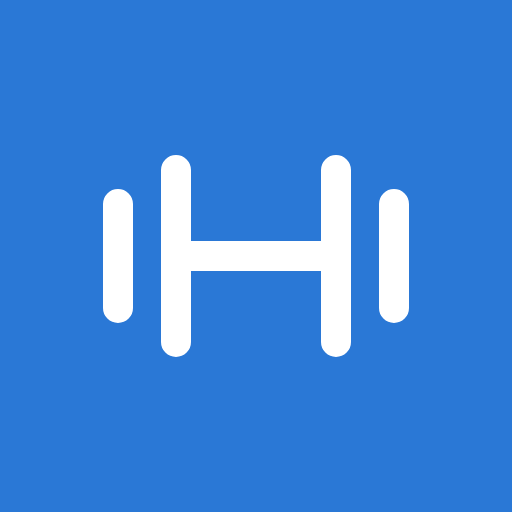
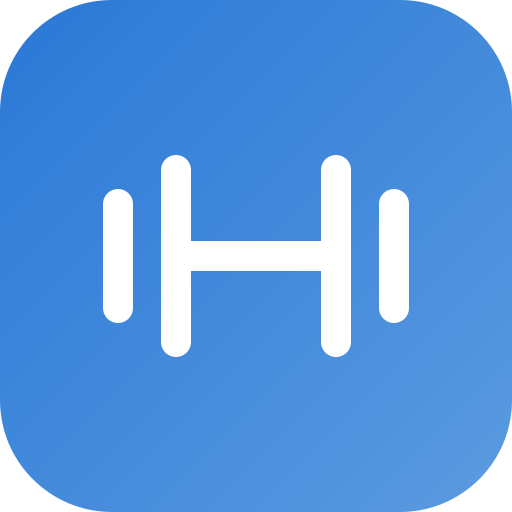
Add files via upload

diff --git a/index.html b/index.html
@@ -15,6 +15,15 @@
 <link rel="apple-touch-icon" href="apple-touch-icon.png">
 <title>Training Log</title>
 <link rel="stylesheet" href="https://fonts.googleapis.com/css2?family=Barlow+Condensed:wght@500;600;700&family=Barlow:wght@400;500;600&display=swap">
+<script>
+var PALS={classic:{n:"Classic",l:"#f1f2ee",d:"#0f1214"},mermaid:{n:"Mermaid",l:"#f3f1fb",d:"#0c0f20"},miami:{n:"Miami Vice",l:"#fff1ee",d:"#12062a"}};
+function applyPal(k){if(!PALS[k])k="classic";var r=document.documentElement;if(k==="classic")r.removeAttribute("data-pal");else r.setAttribute("data-pal",k);
+ try{localStorage.setItem("training-log-pal",k)}catch(e){}
+ var a=document.querySelector('link[rel="icon"]'),b=document.querySelector('link[rel="apple-touch-icon"]');
+ if(a)a.href="icon-"+k+".svg";if(b)b.href="icon-"+k+"-touch.png";
+ var m=document.querySelectorAll('meta[name="theme-color"]');if(m[0])m[0].content=PALS[k].l;if(m[1])m[1].content=PALS[k].d}
+try{var q=localStorage.getItem("training-log-pal");if(q&&q!=="classic")applyPal(q)}catch(e){}
+</script>
 <style>
 /* Layout: one phone column, five bottom tabs. Look: gym-floor signage (condensed numerals, chalk-gray ground, one blue). */
 :root{
@@ -31,6 +40,41 @@
   --bg:#0f1214; --surface:#171b1e; --surface-2:#22282c; --ink:#eef1ee; --ink-2:#b7c0c5; --ink-3:#8c979e;
   --line:#2b3237; --grid:#242b30; --accent:#3987e5; --accent-ink:#04101e; --accent-soft:#16283d;
   --good:#52c882; --good-soft:#142a1d; --warn:#f0a443; --warn-soft:#2d2312; --bad:#ff8a80; color-scheme:dark; }
+
+/* Mermaid palette: lagoon teal, lavender, seafoam, pearl pink. Pairs with the iridescent buttons. */
+:root{--irid:linear-gradient(110deg,#7fb0ea,#a9c8ee,#9bd0c6,#c6d8bd,#93b3dc,#7fb0ea);--irid-glow:rgba(42,120,214,.30);--l1:#2a78d6;--l2:#5b9be0}
+:root[data-pal="mermaid"]{
+  --bg:#f3f1fb; --surface:#ffffff; --surface-2:#e9e6f6; --ink:#1d1a33; --ink-2:#4a4670; --ink-3:#6a668f;
+  --line:#dad5ee; --grid:#e7e3f4; --accent:#0a7f8c; --accent-ink:#ffffff; --accent-soft:#dcf2f4;
+  --good:#0d7a5c; --good-soft:#dcf5ec; --warn:#a24a17; --warn-soft:#fdeadb; --bad:#b3224f;
+  --irid:linear-gradient(110deg,#ff8fd8,#c4a7ff,#7fe9ff,#8dffcf,#ff9fd0,#ff8fd8);--irid-glow:rgba(120,90,255,.35);--l1:#0a8f9a;--l2:#ff8fd8}
+@media (prefers-color-scheme: dark){ :root[data-pal="mermaid"]:not([data-theme="light"]){
+  --bg:#0c0f20; --surface:#141932; --surface-2:#1e2445; --ink:#eff0ff; --ink-2:#bcc2e6; --ink-3:#8d94bf;
+  --line:#2a3159; --grid:#222849; --accent:#4fd8c9; --accent-ink:#04211f; --accent-soft:#12303c;
+  --good:#6ae8ae; --good-soft:#12332a; --warn:#ffb877; --warn-soft:#33261b; --bad:#ff93ad; color-scheme:dark; } }
+:root[data-pal="mermaid"][data-theme="dark"]{
+  --bg:#0c0f20; --surface:#141932; --surface-2:#1e2445; --ink:#eff0ff; --ink-2:#bcc2e6; --ink-3:#8d94bf;
+  --line:#2a3159; --grid:#222849; --accent:#4fd8c9; --accent-ink:#04211f; --accent-soft:#12303c;
+  --good:#6ae8ae; --good-soft:#12332a; --warn:#ffb877; --warn-soft:#33261b; --bad:#ff93ad; color-scheme:dark; }
+.pal{display:grid;grid-template-columns:1fr 1fr 1fr;gap:10px}
+/* Miami Vice: flamingo pink, turquoise and sunset purple. */
+:root[data-pal="miami"]{
+  --bg:#fff1ee; --surface:#ffffff; --surface-2:#ffe2ea; --ink:#2a1040; --ink-2:#5c3b77; --ink-3:#7b6293;
+  --line:#f2cfe0; --grid:#f7dee9; --accent:#c0157f; --accent-ink:#ffffff; --accent-soft:#ffe0f0;
+  --good:#0b7f78; --good-soft:#d9f5f1; --warn:#b3470d; --warn-soft:#ffe9d5; --bad:#b3122f;
+  --irid:linear-gradient(110deg,#ff6fb5,#ffa36a,#ffd86e,#5fe8d8,#9b7bff,#ff6fb5);--irid-glow:rgba(255,79,168,.38);--l1:#ff5fa8;--l2:#7c4dff}
+@media (prefers-color-scheme: dark){ :root[data-pal="miami"]:not([data-theme="light"]){
+  --bg:#12062a; --surface:#1c0c3d; --surface-2:#2a1356; --ink:#fff1fb; --ink-2:#d8b9ee; --ink-3:#a98cc9;
+  --line:#3a1d6e; --grid:#2e1760; --accent:#ff4fa8; --accent-ink:#2b0420; --accent-soft:#3a1240;
+  --good:#3ff0dc; --good-soft:#0f3a3d; --warn:#ffb36b; --warn-soft:#3a2414; --bad:#ff7a93; color-scheme:dark; } }
+:root[data-pal="miami"][data-theme="dark"]{
+  --bg:#12062a; --surface:#1c0c3d; --surface-2:#2a1356; --ink:#fff1fb; --ink-2:#d8b9ee; --ink-3:#a98cc9;
+  --line:#3a1d6e; --grid:#2e1760; --accent:#ff4fa8; --accent-ink:#2b0420; --accent-soft:#3a1240;
+  --good:#3ff0dc; --good-soft:#0f3a3d; --warn:#ffb36b; --warn-soft:#3a2414; --bad:#ff7a93; color-scheme:dark; }
+
+.pal strong{font-size:14px}.pal button{border:1.5px solid var(--line);background:var(--surface);border-radius:12px;padding:10px;text-align:left;display:flex;flex-direction:column;gap:6px}
+.pal button[aria-pressed="true"]{border-color:var(--accent);box-shadow:0 0 0 1px var(--accent) inset}
+.pal i{display:flex;height:16px;border-radius:6px;overflow:hidden}.pal i b{flex:1}
 
 *{box-sizing:border-box}
 html,body{margin:0}
@@ -61,7 +105,7 @@ main{display:flex;flex-direction:column;gap:14px;padding-top:6px}
 .btn.wide{width:100%}
 .btn.out{background:transparent;color:var(--ink);border:1.5px solid var(--line)}
 .btn.sm{min-height:38px;padding:0 14px;font-size:14px}
-.irid{border:0;border-radius:10px;min-height:40px;padding:0 16px;font-weight:800;color:#111;background:linear-gradient(110deg,#ff7ad9,#ffd36e,#7dffb2,#6ee7ff,#a78bfa,#ff7ad9);background-size:300% 100%;box-shadow:0 0 0 1.5px rgba(255,255,255,.55) inset,0 2px 10px rgba(120,90,255,.35);text-shadow:0 1px 0 rgba(255,255,255,.4)}
+.irid{border:0;border-radius:10px;min-height:40px;padding:0 16px;font-weight:800;color:#111;background:var(--irid);background-size:300% 100%;box-shadow:0 0 0 1.5px rgba(255,255,255,.55) inset,0 2px 10px var(--irid-glow);text-shadow:0 1px 0 rgba(255,255,255,.4)}
 @media (prefers-reduced-motion:no-preference){.irid{animation:irid 4s linear infinite}}
 @keyframes irid{to{background-position:300% 0}}
 .irid:active{transform:scale(.97)}
@@ -208,7 +252,7 @@ ol.steps,ul.watch{margin:0;padding-left:22px;display:flex;flex-direction:column;
 ol.steps li::marker{font-weight:700;color:var(--accent)}
 ul.watch li::marker{color:var(--warn)}
 .mus{font-size:14px}.mus b{font-weight:600}
-.dgm{margin:10px 0;padding:8px;border:1px solid var(--line,#ddd);border-radius:12px;background:var(--card,transparent)}
+.dgm{margin:10px 0;padding:8px;border:1px solid var(--line,#ddd);border-radius:12px;background:var(--surface)}
 .dgm svg{width:100%;height:auto;display:block}
 .dgm .fg{fill:none;stroke:var(--ink);stroke-width:2.6;stroke-linecap:round;stroke-linejoin:round}
 .dgm .fg.far{opacity:.45}.dgm .fg.head{fill:var(--bg,transparent)}
@@ -217,6 +261,7 @@ ul.watch li::marker{color:var(--warn)}
 .dgm .eqf{fill:var(--accent);stroke:none}.dgm .eqbg{fill:var(--accent);opacity:.08}
 .dgm .ar{fill:none;stroke:var(--accent);stroke-width:1.8;stroke-linecap:round}
 .dgm .bad .fg{stroke:var(--warn)}
+.dgm .dga-wrap .row{margin-top:4px}@media (prefers-reduced-motion:reduce){.dga-wrap{display:none}}
 .dgm .dl{font-size:9.5px;text-anchor:middle;fill:var(--muted,currentColor)}
 </style>
 </head>
@@ -443,12 +488,12 @@ function dgFrame(s,tf,sc,ox,label){
   const L=(pts,c)=>`<path class="fg ${c||''}" d="M${pts.map(T).join(' L')}"/>`;
   let out='',eq='',arrows='';
   const gy=tf([0,s.Gl])[1],Wn=s.front?s.R.W:(s.a1&&s.a1.W);
-  out+=`<path class="gnd" d="M${ox+4} ${f(gy)} H${ox+120}"/>`;
+  out+=`<path class="gnd" d="M${ox+4} ${f(gy)} H${ox+(s.gw||120)}"/>`;
   for(const e of(p.eq||[])){const k=e[0],r=sc;
     if(k==='db'&&Wn){const c=tf(Wn);eq+=`<circle class="eqf" cx="${f(c[0])}" cy="${f(c[1])}" r="${f(4.8*r)}"/>`}
     else if(k==='db2'){const W2=s.front?s.L.W:(s.a2&&s.a2.W);if(W2){const c=tf(W2);eq+=`<circle class="eqf" cx="${f(c[0])}" cy="${f(c[1])}" r="${f(4.8*r)}"/>`}}
     else if(k==='kb'&&s.a1){const E=s.a1.E,W=s.a1.W,dx=W[0]-E[0],dy=W[1]-E[1],dl=Math.hypot(dx,dy)||1,m=e[1];
-      let c=m==='chest'?[W[0]+4,W[1]+5]:m==='floor'?[W[0],W[1]+6.5]:[W[0]+dx/dl*8,W[1]+dy/dl*8];
+      let c=e.co?[W[0]+e.co[0],W[1]+e.co[1]]:m==='chest'?[W[0]+4,W[1]+5]:m==='floor'?[W[0],W[1]+6.5]:[W[0]+dx/dl*8,W[1]+dy/dl*8];
       const C=tf(c),R6=6.5*r,h=tf([W[0],W[1]]);
       eq+=`<circle class="eqf" cx="${f(C[0])}" cy="${f(C[1])}" r="${f(R6)}"/><path class="eq" d="M${f(C[0]-4*r)} ${f(C[1]-R6*.7)} Q${f(C[0])} ${f(C[1]-R6*2.1)} ${f(C[0]+4*r)} ${f(C[1]-R6*.7)}"/>`}
     else if(k==='bench'||k==='step'){const x0=tf([e[1],0])[0],x1=tf([e[1]+e[2],0])[0],top=tf([0,s.Gl-e[3]])[1];
@@ -458,7 +503,7 @@ function dgFrame(s,tf,sc,ox,label){
     else if(k==='back'){const x=tf([e[1],0])[0],top=tf([0,s.Gl-e[3]-e[2]])[1],bot=tf([0,s.Gl-e[3]])[1];eq+=`<path class="eq" d="M${f(x)} ${f(bot)} V${f(top)}"/>`}
     else if(k==='wall'){const x=tf([e[1],0])[0];eq+=`<path class="eq" d="M${f(x)} ${f(gy)} V6"/>`}
     else if(k==='wallAt'&&s.a1){const x=tf([s.a1.W[0]+e[2],0])[0];eq+=`<path class="eq" d="M${f(x)} ${f(gy)} V6"/>`}
-    else if(k==='wallbg'){eq+=`<rect class="eqbg" x="${ox+4}" y="4" width="116" height="${f(gy-4)}"/>`}
+    else if(k==='wallbg'){eq+=`<rect class="eqbg" x="${ox+4}" y="4" width="${(s.gw||120)-4}" height="${f(gy-4)}"/>`}
     else if(k==='circ'&&s.front){for(const W of[s.R.W,s.L.W]){const c=tf(W),rr=e[2]*r*1.4,sx=W===s.R.W?1:-1;
       eq+=`<path class="eq" d="M${f(c[0]+sx*rr*.2)} ${f(c[1]-rr)} A${f(rr)} ${f(rr)} 0 1 ${sx>0?1:0} ${f(c[0]-sx*rr*.9)} ${f(c[1]-rr*.4)}"/>`}}
     else if(k==='rope'&&s.front){const a=tf(s.R.W),b=tf(s.L.W),hy=e[1]==='over'?tf([0,-86])[1]:tf([0,s.Gl+16])[1];
@@ -490,7 +535,58 @@ function diagramHTML(id){const D=POSE[id];if(!D)return'';
     const ws=F.lab.split(' ');let ln=[''];ws.forEach(w=>{const c=ln[ln.length-1];if((c+' '+w).trim().length>20&&c)ln.push(w);else ln[ln.length-1]=(c+' '+w).trim()});
     g+=dgFrame(F.s,tf,sc,ox,F.lab)+`<text class="dl" text-anchor="middle">${ln.slice(0,3).map((t,k)=>`<tspan x="${ox+62}" y="${116+k*11}">${esc(t)}</tspan>`).join('')}</text>`});
   const alt=`${exById(id).name} diagram: ${fr.map(F=>F.lab).join(', then ')}`;
-  return `<figure class="dgm"><svg viewBox="0 0 ${TW} 146" role="img" aria-label="${esc(alt)}">${g}</svg><figcaption class="note">Simple side-view sketch. The written steps below have the details.</figcaption></figure>`}
+  return `<figure class="dgm"><svg viewBox="0 0 ${TW} 146" role="img" aria-label="${esc(alt)}">${g}</svg><figcaption class="note">Start and end positions. The written steps below have the details.</figcaption></figure>`}
+/* ---------- animated diagrams ---------- */
+const NOANIM=new Set(['arm-circles','ninety-ninety']),DANCH={'incline-pushup':'W','calf-stretch':'W'},
+  DCH=[['H','Sh'],['Sh','Hd'],['H','K'],['K','A'],['A','T'],['H','fK'],['fK','fA'],['fA','fT'],['Sh','E'],['E','W'],['Sh','E2'],['E2','W2']];
+function dgNamed(s){const P={H:s.H,Sh:s.Sh,Hd:s.Hd,K:s.n.K,A:s.n.A,T:s.n.T};
+  if(s.far){P.fK=s.far.K;P.fA=s.far.A;P.fT=s.far.T}if(s.a1){P.E=s.a1.E;P.W=s.a1.W}if(s.a2){P.E2=s.a2.E;P.W2=s.a2.W}return P}
+function dgKbVec(s,m){const W=s.a1?s.a1.W:null;if(!W)return[0,0];const E=s.a1.E,dx=W[0]-E[0],dy=W[1]-E[1],dl=Math.hypot(dx,dy)||1;
+  return m==='chest'?[4,5]:m==='floor'?[0,6.5]:[dx/dl*8,dy/dl*8]}
+function dgAnim(id){const D=POSE[id];if(!D||NOANIM.has(id))return null;
+  const F=D.filter(([l,p])=>!p.bad);if(F.length<2)return null;
+  const fr=F.map(([lab,p])=>{const s=dgSolve(p),fl=p.flip?-1:1;
+    const eq=(p.eq||[]).filter(e=>e[0]!=='arr').map(e=>e[0]==='kb'?[...e,dgKbVec(s,e[1])]:[...e]);
+    let ang=null;if(!s.front){const P=dgNamed(s);ang={};for(const[a,b]of DCH)if(P[a]&&P[b]){const dx=(P[b][0]-P[a][0])*fl,dy=P[b][1]-P[a][1];ang[a+'>'+b]=[Math.atan2(dx,dy)*180/Math.PI,Math.hypot(dx,dy)]}}
+    return{lab,p,s,eq,ang,front:!!s.front,far:!!s.far,a1:!!s.a1,a2:!!s.a2}});
+  const f0=fr[0],key=f=>f.front+'|'+f.far+'|'+f.a1+'|'+f.a2+'|'+f.eq.map(e=>e[0]).join();
+  if(fr.some(f=>key(f)!==key(f0)))return null;
+  const an=f0.p.an||DANCH[id]||(fr.some(f=>f.eq.some(e=>['bench','step','back'].includes(e[0])))?'H':'A');
+  return{id,fr,an,front:f0.front,seq:fr.length===2?[0,1]:[...fr.keys(),...[...fr.keys()].slice(1,-1).reverse()]}}
+const dgLerp=(a,b,u)=>a+(b-a)*u,dgAng=(a,b,u)=>a+(((b-a+540)%360)-180)*u;
+function dgAt(A,i,j,u){const a=A.fr[i],b=A.fr[j];
+  const eq=a.eq.map((e,k)=>{const o=b.eq[k],r=e.map((v,n)=>typeof v==='number'&&typeof o[n]==='number'?dgLerp(v,o[n],u):(u<.5?v:o[n]));
+    if(e[0]==='kb'){r[2]=[dgLerp(e[2][0],o[2][0],u),dgLerp(e[2][1],o[2][1],u)];r.co=r[2]}return r});
+  const bow=dgLerp(a.p.bow||0,b.p.bow||0,u),lift=dgLerp(a.p.lift||0,b.p.lift||0,u);
+  if(A.front){const pl={ua:dgLerp(a.p.ua||0,b.p.ua||0,u),fa:dgLerp(a.p.fa||0,b.p.fa||0,u),sp:dgLerp(a.p.sp==null?4:a.p.sp,b.p.sp==null?4:b.p.sp,u),lift};
+    const s=dgSolveF(pl);s.p={eq:eq.map(e=>e.filter((v,n)=>n<e.length)),bad:0};s.gw=240;return s}
+  const P={H:[0,0]};for(const[f,t]of DCH){const x=a.ang[f+'>'+t],y=b.ang[f+'>'+t];if(!x||!P[f])continue;
+    const an=dgAng(x[0],y[0],u),L=dgLerp(x[1],y[1],u);P[t]=[P[f][0]+Math.sin(dr(an))*L,P[f][1]+Math.cos(dr(an))*L]}
+  const ax=P[A.an][0],sh=q=>q&&[q[0]-ax,q[1]],Q={};for(const k in P)Q[k]=sh(P[k]);
+  const s={H:Q.H,Sh:Q.Sh,Hd:Q.Hd,n:{K:Q.K,A:Q.A,T:Q.T},far:Q.fK?{K:Q.fK,A:Q.fA,T:Q.fT}:null,a1:Q.E?{E:Q.E,W:Q.W}:null,a2:Q.E2?{E:Q.E2,W:Q.W2}:null};
+  const all=Object.values(Q);s.G=Math.max(...all.map(q=>q[1]));s.Gl=s.G+lift;s.gw=240;
+  s.p={bow,bad:0,eq:eq.map(e=>{const r=[...e];if(['bench','step','back','wall'].includes(e[0]))r[1]=e[1]-ax;r.co=e.co;return r})};return s}
+function dgAnimView(A){let x0=1e9,x1=-1e9,hh=0,K=[];
+  for(let k=0;k<A.seq.length;k++){const i=A.seq[k],j=A.seq[(k+1)%A.seq.length];for(let u=0;u<=1.001;u+=.125){const s=dgAt(A,i,j,u),q=dgPts(s);
+    x0=Math.min(x0,...q.map(a=>a[0]));x1=Math.max(x1,...q.map(a=>a[0]));hh=Math.max(hh,s.Gl-Math.min(...q.map(a=>a[1])))}}
+  const sc=Math.min(1.7,214/(x1-x0||1),104/(hh||1));A.sc=sc;A.cx=(x0+x1)/2}
+function dgDraw(A,i,j,u,lab){const s=dgAt(A,i,j,u),sc=A.sc,tf=q=>[124+(q[0]-A.cx)*sc,114+(q[1]-s.Gl)*sc];
+  return dgFrame(s,tf,sc,0,lab)}
+const DGA={paused:false,raf:0,last:0,clock:0,cache:{}};
+const dgReduced=()=>{try{return matchMedia('(prefers-reduced-motion: reduce)').matches}catch(e){return false}};
+function dgGet(id){if(!(id in DGA.cache)){const A=dgAnim(id);if(A)dgAnimView(A);DGA.cache[id]=A}return DGA.cache[id]}
+function dgPhase(A,clock){const H=550,M=950,m=A.seq.length,k=Math.floor(clock/(H+M))%m,t=clock%(H+M),i=A.seq[k],j=A.seq[(k+1)%m];
+  if(t<H)return[i,j,0,A.fr[i].lab];const x=(t-H)/M,e=(1-Math.cos(Math.PI*x))/2;return[i,j,e,A.fr[e<.5?i:j].lab]}
+function dgAnimHTML(id){const A=dgGet(id);if(!A)return'';
+  const ln=(t=>{const w=t.split(' ');let L=[''];w.forEach(x=>{const c=L[L.length-1];if((c+' '+x).trim().length>30&&c)L.push(x);else L[L.length-1]=(c+' '+x).trim()});return L})(A.fr[0].lab);
+  return `<figure class="dgm dga-wrap"><svg class="dga" data-id="${esc(id)}" viewBox="0 0 248 146" role="img" aria-label="${esc(exById(id).name)} animation"><g class="stage">${dgDraw(A,0,A.seq[1],0)}</g><text class="dl" x="124" y="136" text-anchor="middle">${esc(A.fr[0].lab)}</text></svg>
+  <div class="row between"><span class="note">Animated sketch</span><button class="btn out sm" data-act="dgtoggle" aria-pressed="${DGA.paused}">${DGA.paused?'Play':'Pause'}</button></div></figure>`}
+function dgTick(ts){const el=document.querySelector('svg.dga');if(!el||!el.isConnected){DGA.raf=0;return}
+  const dt=Math.max(0,Math.min(100,ts-DGA.last));DGA.last=ts;if(!DGA.paused)DGA.clock+=dt;
+  const A=dgGet(el.dataset.id);if(A){const[i,j,u,lab]=dgPhase(A,DGA.clock);el.querySelector('.stage').innerHTML=dgDraw(A,i,j,u,lab);el.querySelector('.dl').textContent=lab}
+  DGA.raf=requestAnimationFrame(dgTick)}
+function dgStart(){if(dgReduced()||DGA.raf||!document.querySelector('svg.dga'))return;DGA.clock=0;DGA.last=performance.now();DGA.raf=requestAnimationFrame(dgTick)}
+
 const Q4={t:71,th:0,sh:-90,f:-90,ua:0,fa:0};
 const POSE={
 'goblet-squat':[['1 Stand tall',{ua:10,fa:160,eq:[['kb','chest']]}],['2 Sit between knees',{t:25,th:95,sh:-35,ua:20,fa:150,eq:[['kb','chest']]}]],
@@ -510,7 +606,7 @@ const POSE={
 'plank':[['1 One line, head to heels',{t:83,th:-83,sh:-83,f:10,ua:0,fa:90}],['Avoid: hips sagging',{bad:1,t:72,th:-80,sh:-88,f:10,ua:0,fa:90}]],
 'dead-bug':[['1 Arms up, knees over hips',{t:-90,th:180,sh:90,ua:180,fa:180,th2:172,sh2:95,ua2:176,fa2:176}],['2 Lower opposite arm and leg',{t:-90,th:180,sh:90,ua:180,fa:180,th2:92,sh2:92,ua2:-92,fa2:-92}]],
 'bird-dog':[['1 Hands and knees',{...Q4,th2:3,sh2:-90,f2:-90,ua2:3,fa2:0}],['2 Reach opposite arm and leg',{...Q4,th:-90,sh:-90,f:-90,th2:0,sh2:-90,f2:-90,ua2:90,fa2:90}]],
-'farmers-carry':[['1 Stand tall',{ua:0,fa:0,eq:[['db']]}],['2 Short, steady steps',{th:22,sh:-8,th2:-22,gl:1,gs:-1,f2:60,ua:0,fa:0,eq:[['db']]}]],
+'farmers-carry':[['1 Stand tall',{th2:0,sh2:0,ua:0,fa:0,eq:[['db']]}],['2 Short, steady steps',{th:22,sh:-8,th2:-22,gl:1,gs:-1,f2:60,ua:0,fa:0,eq:[['db']]}]],
 'side-plank':[['1 Elbow under shoulder, one line',{t:77,th:-77,sh:-77,f:90,ua:0,fa:90,ua2:180,fa2:180}]],
 'hip-flexor-stretch':[['1 Half-kneel, tall',{th:95,sh:0,th2:-24,sh2:-90,f2:-90,hand:['hip',20,-2]}],['2 Tuck tailbone, hips forward',{t:-4,th:98,sh:6,th2:-31,sh2:-90,f2:-90,hand:['hip',20,-2],eq:[['arr',-6,6,10,6]]}]],
 'thoracic-rotation':[['1 Elbow down toward the other arm',{...Q4,ua:40,fa:-150,ua2:0,fa2:0}],['2 Open up to the ceiling',{...Q4,ua:170,fa:20,ua2:0,fa2:0}]],
@@ -534,6 +630,7 @@ const POSE={
 function infoHTML(id,from){const ex=exById(id);if(!ex)return'<p class="empty">Exercise not found.</p>';const g=guideFor(id);
   return `<div class="row between"><button class="irid" data-act="${from?'infoback':'closesheet'}">${from?'‹ Back':'Close'}</button>${from&&from.k==='guide'&&cur()?`<button class="btn sm" data-act="addto:${esc(id)}">Add to today</button>`:''}</div>
   <div><h2 style="margin:0 0 2px;color:var(--ink)">${esc(ex.name)}</h2><p class="note">${esc(ex.group)} · ${esc(ex.equip||'')} · logs ${esc(TL[ex.type].toLowerCase())}</p></div>
+  ${dgAnimHTML(id)}
   ${g.p.length||g.s.length?bodyHTML(g.p,g.s):''}
   ${diagramHTML(id)}
   ${g.has?`<div class="stack"><h2>How to do it</h2><ol class="steps">${g.how.map(s=>`<li>${esc(s)}</li>`).join('')}</ol></div>
@@ -555,6 +652,9 @@ const MOB={
 
 function routine(k,have){const ids=new Set((have||[]).map(e=>e.ex)),out=[];
   for(const [id,n,t] of MOB[k].items){const e=mkEntry(id,n,t);if(ids.has(e.ex))continue;ids.add(e.ex);e.rt=k;out.push(e)}return out}
+const RK={warm:0,core:2,cool:3},rank=e=>RK[e.rt]??1;
+function addEntry(se,e){const i=se.entries.findIndex(x=>rank(x)>rank(e));if(i<0)se.entries.push(e);else se.entries.splice(i,0,e)}
+function tidyOrder(se){se.entries=se.entries.map((e,i)=>[e,i]).sort((a,b)=>rank(a[0])-rank(b[0])||a[1]-b[1]).map(x=>x[0])}
 /* ---------- state ---------- */
 const LSK='training-log-v1';
 const S={entered:false,tab:'today',date:today(),loaded:false,db:null,root:null,sample:null,dl:null,
@@ -942,13 +1042,16 @@ const TABS=[['today','Log'],['progress','Progress'],['diary','Journal'],['coach'
 const CHECK='<svg viewBox="0 0 24 24"><path d="M5 12.5l4.5 4.5L19 7.5"/></svg>';
 
 const LINES=[n=>`Let\u2019s get it${n}.`,n=>`Hi${n}. Ready to move?`,n=>`Strong is built one set at a time${n}.`,n=>`Show up today${n}. That\u2019s the whole job.`,n=>`Small steps still count${n}.`,n=>`Progress, not perfection${n}.`,n=>`Every rep is a vote for who you\u2019re becoming${n}.`];
-let HERO=null,BIGDOG=Math.random()<1/55;
-const LOGO='<svg viewBox="0 0 512 512" aria-hidden="true"><rect width="512" height="512" rx="112" fill="var(--accent)"/><g fill="none" stroke="var(--accent-ink)" stroke-width="30" stroke-linecap="round"><path d="M176 170v172M336 170v172M118 204v104M394 204v104M176 256h160"/></g></svg>';
-function viewLanding(){const p=S.profile,n=p&&p.name?`, ${BIGDOG?'Big Dog':p.name}`:'',h=new Date().getHours();if(HERO==null)HERO=Math.floor(Math.random()*LINES.length);
+const MIAMI=[n=>`Totally tubular${n}. Let\u2019s lift.`,n=>`Radical${n}. Today\u2019s workout awaits.`,n=>`Cue the synth${n}. Time to train.`,n=>`Leg warmers optional${n}. Effort required.`,n=>`Fresh as a neon sunset${n}. Let\u2019s move.`,n=>`Rewind the tape, hit play on leg day${n}.`,n=>`Bodacious${n}. Let\u2019s get after it.`,n=>`Pastel suit not required${n}. Sneakers are.`,n=>`It\u2019s a Miami night${n}. Go time.`,n=>`Gnarly gains ahead${n}.`,n=>`Max headroom, max effort${n}.`,n=>`Totally in the zone${n}. Press play.`],
+ SPLASH=[n=>`Time to make a splash${n}.`,n=>`Dive in${n}. The water\u2019s fine.`,n=>`Let\u2019s make waves${n}.`,n=>`Don\u2019t be koi about it${n}. Show \u2019em what you\u2019ve got.`,n=>`Carp-e diem${n}. Seize the day.`,n=>`Wade no longer${n}. Dive right in.`,n=>`The tide is in${n}. Ride it.`,n=>`Go with the flow${n}, then make it a current.`,n=>`Fin-ally, a workout${n}.`,n=>`Nothing to sea here but progress${n}.`];
+const MIAMI_EYE=h=>h<5?'Neon after midnight':h<12?'Sunrise on the strip':h<17?'High noon, sunglasses on':'Neon o\u2019clock';
+let HERO=null,HEROK='',BIGDOG=Math.random()<1/55,SPLASHROLL=Math.random()<1/30;
+const LOGO='<svg viewBox="0 0 512 512" aria-hidden="true"><defs><linearGradient id="lg" x1="0" y1="0" x2="1" y2="1"><stop offset="0" style="stop-color:var(--l1)"/><stop offset="1" style="stop-color:var(--l2)"/></linearGradient></defs><rect width="512" height="512" rx="112" fill="url(#lg)"/><g fill="none" stroke="#fff" stroke-width="30" stroke-linecap="round"><path d="M176 170v172M336 170v172M118 204v104M394 204v104M176 256h160"/></g></svg>';
+function viewLanding(){const p=S.profile,n=p&&p.name?`, ${BIGDOG?'Big Dog':p.name}`:'',h=new Date().getHours();const pl=palNow(),lines=pl==='miami'?MIAMI:(pl==='mermaid'&&SPLASHROLL)?SPLASH:LINES,hk=lines===MIAMI?'m':lines===SPLASH?'s':'c';if(HERO==null||HEROK!==hk){HERO=Math.floor(Math.random()*lines.length);HEROK=hk}
   if(!p)return `<section class="landing"><div class="logo">${LOGO}</div><p class="eyebrow">Welcome</p><h1 class="hero">Let\u2019s build your log.</h1><p class="upnext">Set up takes a minute. Everything stays on this device.</p><button class="btn big" data-act="enter">Get started</button></section>`;
   const t=today(),ws=monday(t),act=[...Array(7)].filter((_,i)=>isActive(S.sessions[addDays(ws,i)])).length,tot=sessDates().filter(d=>isActive(S.sessions[d])).length,rec=nextPlan();
-  const eyebrow=(h<5?'Late night':h<12?'Good morning':h<17?'Good afternoon':'Good evening')+n;
-  return `<section class="landing"><div class="logo">${LOGO}</div><p class="eyebrow">${esc(eyebrow)}</p><h1 class="hero">${esc(LINES[HERO](n))}</h1>
+  const eyebrow=pl==='miami'?MIAMI_EYE(h)+n:(h<5?'Late night':h<12?'Good morning':h<17?'Good afternoon':'Good evening')+n;
+  return `<section class="landing"><div class="logo">${LOGO}</div><p class="eyebrow">${esc(eyebrow)}</p><h1 class="hero">${esc(lines[HERO](n))}</h1>
    <div class="landstats"><div><b>${act}/${p.target||3}</b><span>active days this week</span></div><div><b>${tot}</b><span>workouts logged</span></div></div>
    <p class="upnext">${isActive(S.sessions[t])?'Logged today. Nice work.':`Up next: <b>Day ${rec} \u00b7 ${esc(PLAN[rec].name)}</b>`}</p>
    <button class="btn big" data-act="enter">Let\u2019s go</button></section>`}
@@ -1219,12 +1322,14 @@ function viewCoach(){S._ns=noteScan();const q=S.cq||'',res=S.cres||[];
   ${res.map(i=>`<div class="card stack" style="background:var(--surface-2)"><h2 style="margin:0">${esc(FAQ[i][0])}</h2><div>${md(FAQ[i][2])}</div></div>`).join('')}
   <details class="tbl"><summary>Browse all topics</summary><div class="stack" style="margin-top:8px">${FAQ.map((f,i)=>`<button class="pick" data-act="topic:${i}"><strong>${esc(f[0])}</strong></button>`).join('')}</div></details></div>`}
 
+const palNow=()=>document.documentElement.getAttribute('data-pal')||'classic';
 function viewMe(){const p=S.profile;
   return `<h1>Me</h1><div class="card stack"><h2>Profile and goals</h2>${profileFields(p)}<button class="btn" data-act="saveprofile">Save profile</button></div>
   <div class="card stack"><h2>Joints and rest-day swaps</h2><p class="note">Turn on a joint when it needs a break. Exercises that load it get flagged, and new workouts swap them automatically. In a workout already started, tap Swap in the banner.</p>
    ${restChips()}${swapPreviewHTML()}
    <div class="chips"><button class="chip" data-act="togglehints" aria-pressed="${hintsOn()}">Let my notes suggest changes</button></div>
    <p class="note">When on, words like “sore knee” or “tired” in your journal and workout notes can suggest resting a joint or taking a lighter day. You always confirm.</p></div>
+  <div class="card stack"><h2>Color theme</h2><div class="pal">${[['classic','Classic',['#2a78d6','#7fb0ea','#9bd0c6','#c6d8bd']],['mermaid','Mermaid',['#0a7f8c','#c4a7ff','#ff8fd8','#8dffcf']],['miami','Miami Vice',['#ff5fa8','#ffa36a','#5fe8d8','#7c4dff']]].map(([k,n,c])=>`<button data-act="pal:${k}" aria-pressed="${palNow()===k}"><i>${c.map(x=>`<b style="background:${x}"></b>`).join('')}</i><strong>${n}</strong></button>`).join('')}</div><p class="note">Light or dark still follows your phone. The app icon, button glow and greetings follow the theme. A home screen icon is saved when you add the app, so re-add it after changing themes to see the new icon.</p></div>
   <div class="card stack"><h2>Mobility</h2><p class="note">Routines you can add to any workout, or do on their own: a 10 minute warm-up, a 6 minute core finisher, a 5 minute cooldown, and a 25 minute mobility + core day. Dynamic moves go before lifting and longer holds go after. Find the buttons on the Log tab.</p>
    <div class="chips"><button class="chip" data-act="automob" aria-pressed="${!!S.profile.autoWarm}">Start workouts with a ${MOB.warm.min} min warm-up</button></div>
    <p class="note">${MOB.warm.name}: ${MOB.warm.items.map(i=>exById(i[0]).name).join(', ')}.<br>Cooldown: ${MOB.cool.items.map(i=>exById(i[0]).name).join(', ')}.</p></div>
@@ -1253,7 +1358,7 @@ function renderSheet(){const el=$('#sheet'),sh=S.sheet;if(!sh){el.innerHTML='';r
    <input id="sq" type="text" placeholder="Search exercises" value="${esc(sh.q||'')}" aria-label="Search exercises">
    <div class="chips">${['All',...GROUPS].map(g=>`<button class="chip" data-act="grp:${g}" aria-pressed="${(sh.g||'All')===g}">${g}</button>`).join('')}</div>
    <div class="stack" id="pl">${pickList()}</div><button class="btn out" data-act="newcustom">Create an exercise</button>`}
-  el.innerHTML=`<div class="scrim" data-act="closesheet"><div class="panel" role="dialog" aria-modal="true">${body}</div></div>`}
+  el.innerHTML=`<div class="scrim" data-act="closesheet"><div class="panel" role="dialog" aria-modal="true">${body}</div></div>`;dgStart()}
 function pickList(){const sh=S.sheet,q=(sh.q||'').toLowerCase();let L=exAll();
   if(sh.g&&sh.g!=='All')L=L.filter(e=>e.group===sh.g);if(q)L=L.filter(e=>e.name.toLowerCase().includes(q));
   let top='';
@@ -1314,7 +1419,9 @@ document.addEventListener('click',async ev=>{
   case'addwarm':case'addcore':case'addcool':{const se=cur();if(!se)break;const k={addwarm:'warm',addcore:'core',addcool:'cool'}[a];if(se['r_'+k])break;
     const es=routine(k,se.entries);if(k==='warm')se.entries=[...es,...se.entries];
     else{const ci=k==='core'?se.entries.findIndex(e=>e.rt==='cool'):-1;if(ci>=0)se.entries.splice(ci,0,...es);else se.entries.push(...es)}
-    se['r_'+k]=true;saveSession(S.date);render(true);break}
+    se['r_'+k]=true;tidyOrder(se);saveSession(S.date);render(true);break}
+  case'pal':{applyPal(arg);HERO=null;render(true);break}
+  case'dgtoggle':DGA.paused=!DGA.paused;el.textContent=DGA.paused?'Play':'Pause';el.setAttribute('aria-pressed',String(DGA.paused));break;
   case'automob':S.profile.autoWarm=!S.profile.autoWarm;saveApp();render(true);break;
   case'goal':{const n=+arg;$('#pf-target').value=n;el.parentNode.querySelectorAll('.chip').forEach(c=>c.setAttribute('aria-pressed',String(c===el)));if(S.profile){S.profile.target=n;saveApp()}break}
   case'swapto':{const[ei,id]=arg.split(':'),old=cur().entries[+ei],ex=exById(id);if(!old||!ex)break;const n=mkEntry(ex.id,old.sets.length,old.target);n.from=old.from||old.name;n.rt=old.rt;n.sets=n.sets.map(x=>({...x,ok:false}));cur().entries[+ei]=n;saveSession(S.date);render(true);break}
@@ -1342,18 +1449,18 @@ document.addEventListener('click',async ev=>{
   case'info':{const f=S.sheet&&(S.sheet.k==='add'||S.sheet.k==='swap'||S.sheet.k==='guide')?S.sheet:null;S.sheet={k:'info',id:arg,from:f};renderSheet();break}
   case'infoback':S.sheet=S.sheet.from;renderSheet();break;
   case'guide':S.sheet={k:'guide',q:'',g:'All'};renderSheet();break;
-  case'addto':{const ex=exById(arg);if(ex&&cur()){cur().entries.push(mkEntry(ex.id,3,''));saveSession(S.date);S.sheet=null;renderSheet();S.tab='today';render(true);window.scrollTo(0,document.body.scrollHeight)}break}
+  case'addto':{const ex=exById(arg);if(ex&&cur()){addEntry(cur(),mkEntry(ex.id,3,''));saveSession(S.date);S.sheet=null;renderSheet();S.tab='today';render(true);window.scrollTo(0,document.body.scrollHeight)}break}
   case'grp':S.sheet.g=arg;renderSheet();break;
   case'pick':{const ex=exById(arg);if(!ex)break;const sh=S.sheet;
     if(sh.k==='swap'){const old=cur().entries[sh.ei],n=mkEntry(ex.id,old.sets.length,old.target);n.from=old.from||old.name;
       n.sets=n.sets.map(s=>({...s,ok:false}));cur().entries[sh.ei]=n}
-    else cur().entries.push(mkEntry(ex.id,3,''));
+    else addEntry(cur(),mkEntry(ex.id,3,''));
     S.sheet=null;renderSheet();saveSession(S.date);render(true);break}
   case'newcustom':S.sheet={k:'custom',from:S.sheet};renderSheet();break;
   case'savecustom':{const name=$('#cn').value.trim();if(!name){$('#cn').focus();break}
     const c={id:'c-'+Date.now().toString(36),name,group:$('#cg').value,type:$('#ct').value};S.custom.push(c);saveApp();
     const prev=S.sheet.from;S.sheet=null;renderSheet();
-    if(prev&&cur()&&prev.k==='add'){cur().entries.push(mkEntry(c.id,3,''));saveSession(S.date)}render(true);break}
+    if(prev&&cur()&&prev.k==='add'){addEntry(cur(),mkEntry(c.id,3,''));saveSession(S.date)}render(true);break}
   case'delcustom':S.custom=S.custom.filter(c=>c.id!==arg);saveApp();render(true);break;
   case'range':S.range=arg;render(true);break;
   case'savew':{const v=num($('#wv').value),d=$('#wd').value||today();if(v==null||v<50||v>700){$('#wv').focus();break}

diff --git a/sw.js b/sw.js
@@ -1,6 +1,6 @@
 // Network first, so updates arrive as soon as you are online; cached copy keeps the app working offline.
-const V = 'training-log-v11';
-const ASSETS = ['./', 'index.html', 'manifest.webmanifest', 'icon.svg', 'icon-192.png', 'icon-512.png', 'apple-touch-icon.png'];
+const V = 'training-log-v13';
+const ASSETS = ['./', 'index.html', 'manifest.webmanifest', 'icon.svg', 'icon-192.png', 'icon-512.png', 'apple-touch-icon.png', 'icon-classic.svg', 'icon-mermaid.svg', 'icon-miami.svg', 'icon-classic-touch.png', 'icon-mermaid-touch.png', 'icon-miami-touch.png'];
 self.addEventListener('install', e => {
   e.waitUntil(caches.open(V).then(c => c.addAll(ASSETS)).then(() => self.skipWaiting()));
 });

diff --git a/README.md b/README.md
@@ -56,3 +56,9 @@ To update the app later, replace `index.html` in the repo. To force devices to r
 
 ## Exercise diagrams
 Each free-weight, bodyweight and mobility exercise has simple stick-figure drawings (start and end positions) at the top of its guide sheet. They are drawn in code, work offline, and follow the written steps. They are sketches, not a substitute for the steps or a coach.
+
+## Animation and color themes
+Exercise diagrams now loop as a short animation at the top of the guide sheet (tap Pause to hold a pose; it stays still if your phone is set to reduce motion). Plank, side plank, deep squat hold, doorway stretch, arm circles and 90/90 show static start and end poses only.
+Me tab > Color theme switches between Classic and Mermaid. Warm-ups always sit first and cooldowns last, even if you add exercises later.
+
+Themes: Classic, Mermaid and Miami Vice (Me tab). Each has its own palette, iridescent button blend, app icon (icon-*.svg and icon-*-touch.png) and greetings. Mermaid has a 1 in 30 chance of a water pun; Miami Vice uses 80s greetings.
